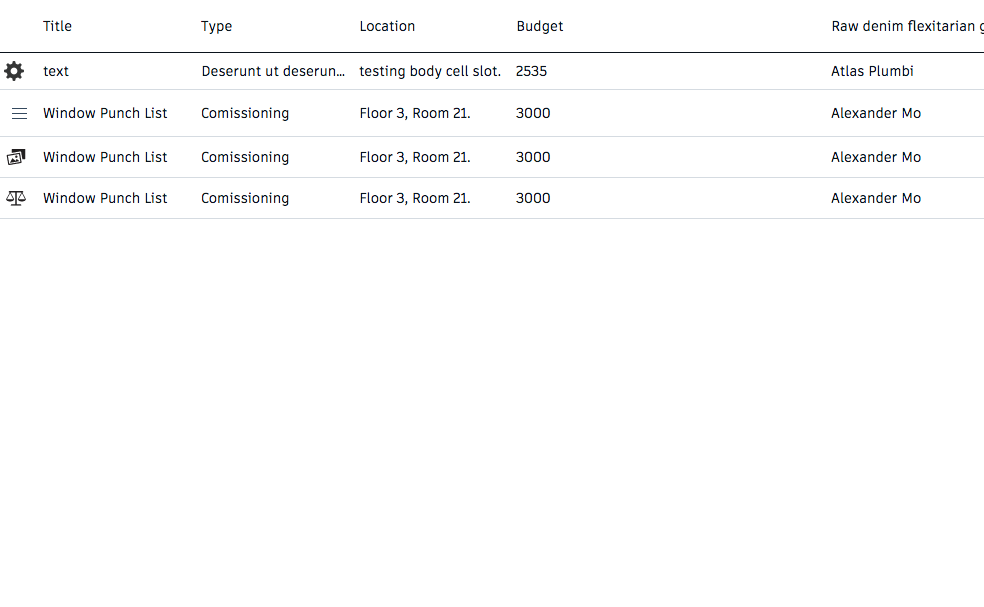
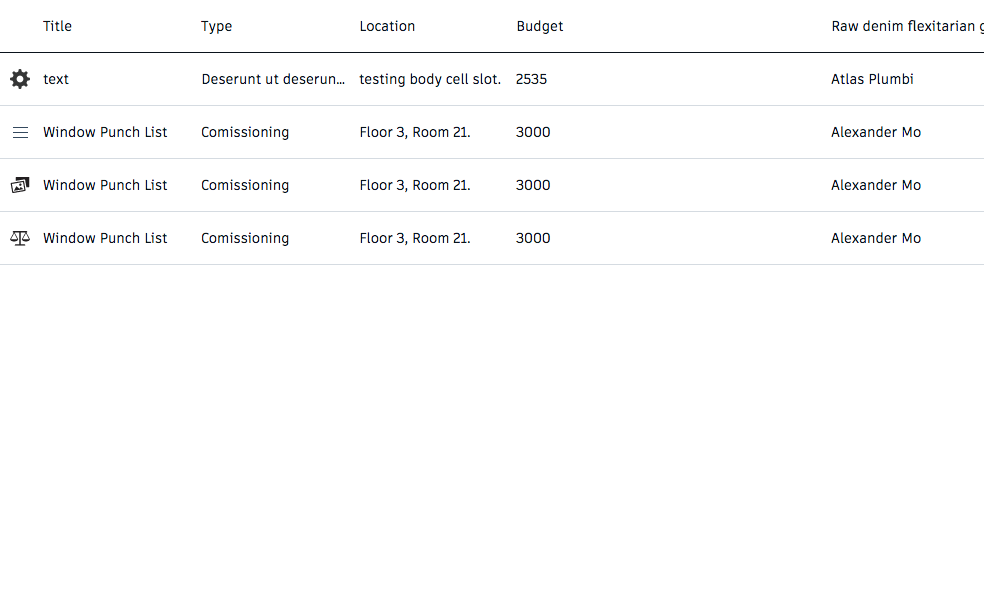
update screen shots

diff --git a/src/web/components/table/table.scss b/src/web/components/table/table.scss
@@ -31,17 +31,14 @@
   width: 16px;
   height: 16px;
 
-    & svg {
-		@include vendor-prefix(transform, translateX(-50%) translateY(-50%));
-		position: absolute;
-		top: 50%; left: 50%;
-	}
-
-
+  & svg {
+    @include vendor-prefix(transform, translateX(-50%) translateY(-50%));
+    position: absolute;
+    top: 50%;
+    left: 50%;
+  }
 
   white-space: nowrap;
   overflow: hidden;
   text-overflow: ellipsis;
 }
-
-

diff --git a/src/web/helpers/js/_frtopercentage.js b/src/web/helpers/js/_frtopercentage.js
@@ -1,0 +1,11 @@
+function frToPercentage(width) {
+  if (width.endsWith('fr')) {
+      var value = width.split('fr', 1)
+      var percentWidth = value[0] * 100;
+      return  `${percentWidth}%`;
+  } else {
+      return width ;
+  }
+}
+
+module.exports = frToPercentage;
